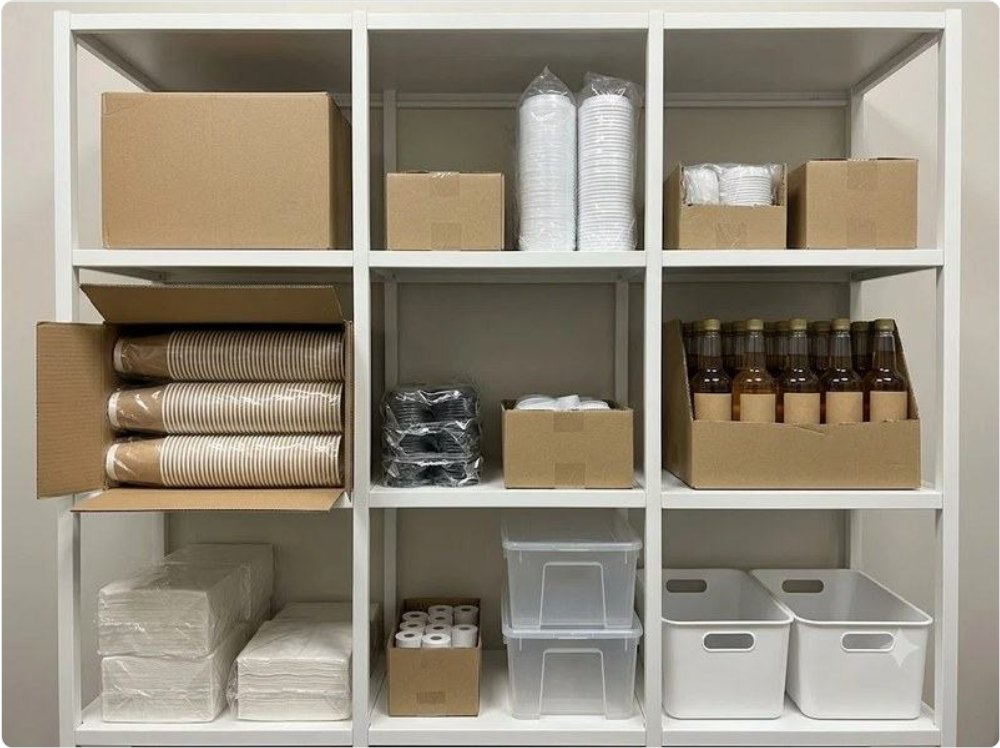
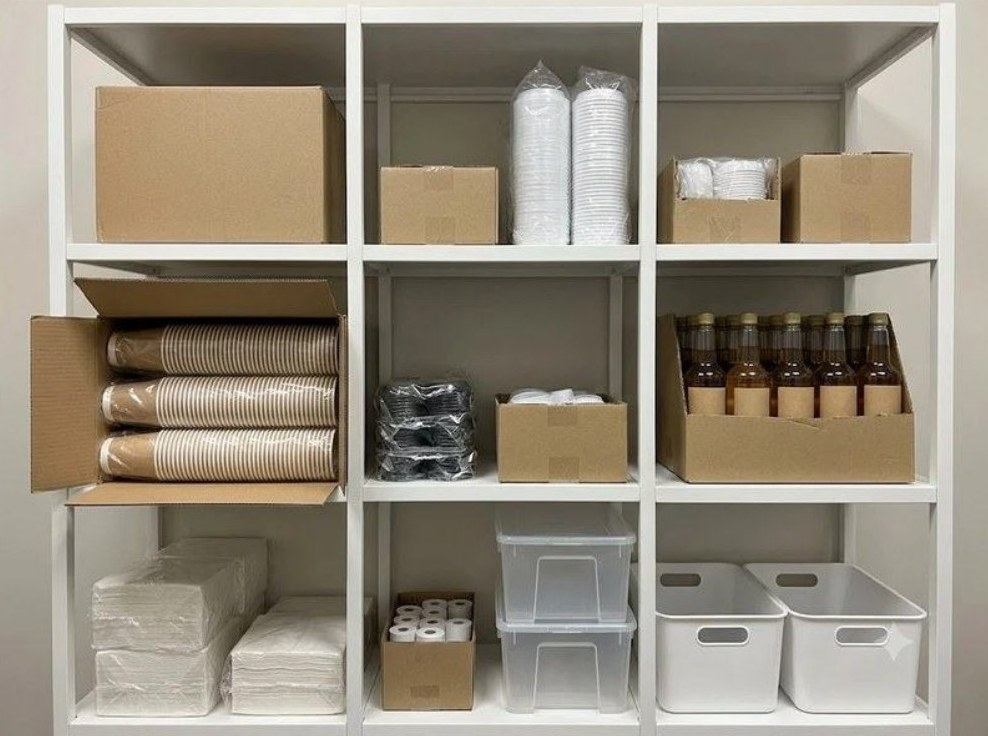
랜딩 사진 모서리에 남아 있던 흰 테두리·회색 둥근 모서리 잘라냄
find·map·exp·order·전후 비교(after·before) 사진이 원래 캡처의 둥근 모서리와 여백을
품고 있어 카드 모서리 안쪽에 흰 띠·회색 호가 보였음. 안쪽으로 6~16px 잘라 카드 둥근 모서리만
남게 하고, width/height와 캐시 번호도 맞춤.

Claude-Session: https://claude.ai/code/session_01GSizRSRuX8ML7roxLkBkh4

Changed region(s): [[0.0, 0.0, 1.0, 1.0]]

diff --git a/start/index.html b/start/index.html
@@ -187,8 +187,8 @@
       <div>
         <!-- 사진은 바꿔 끼울 수 있다: img/before.jpg(표시 없는 선반) · img/after.jpg(같은 선반을 앱에 넣은 화면). 실제 매장 사진은 사장님 허락 + 메뉴판·로고·사람 없이 -->
         <div class="compare" id="compare">
-          <img src="img/after.jpg?v=3" alt="칸마다 번호와 노란 쪽지로 물건 이름이 붙은 카페 창고 선반 사진" width="1000" height="748">
-          <div class="before"><img src="img/before.jpg?v=3" alt="아무 표시 없는 같은 선반 사진" width="1000" height="748"></div>
+          <img src="img/after.jpg?v=4" alt="칸마다 번호와 노란 쪽지로 물건 이름이 붙은 카페 창고 선반 사진" width="988" height="736">
+          <div class="before"><img src="img/before.jpg?v=4" alt="아무 표시 없는 같은 선반 사진" width="988" height="736"></div>
           <span class="lab l">지금</span><span class="lab r">오브젯도</span>
           <span class="bar"></span><span class="knob">↔</span>
           <input type="range" min="0" max="100" value="50" aria-label="전후 비교: 밀어서 보기">
@@ -243,7 +243,7 @@
     <h2>가게마다 아픈 곳이 달라요</h2>
     <p class="sub">제일 와닿는 데서 눌러 보세요.</p>
     <article class="pain">
-      <div class="shot"><img src="img/find.jpg" alt="검색한 물건이 있는 칸만 밝게 빛나는 선반 사진" loading="lazy" width="676" height="476"></div>
+      <div class="shot"><img src="img/find.jpg?v=2" alt="검색한 물건이 있는 칸만 밝게 빛나는 선반 사진" loading="lazy" width="656" height="456"></div>
       <div>
         <span class="k">새 직원</span>
         <h3>“이거 어딨어요?”가 줄어요</h3>
@@ -252,7 +252,7 @@
       </div>
     </article>
     <article class="pain">
-      <div class="shot"><img src="img/map.jpg" alt="모자란 물건이 있는 칸은 주황, 유통기한이 가까운 칸은 빨강 테두리인 선반 사진" loading="lazy" width="676" height="476"></div>
+      <div class="shot"><img src="img/map.jpg?v=2" alt="모자란 물건이 있는 칸은 주황, 유통기한이 가까운 칸은 빨강 테두리인 선반 사진" loading="lazy" width="656" height="456"></div>
       <div>
         <span class="k"><i style="background: var(--low);"></i>재고</span>
         <h3>떨어진 걸 사장님 없이도 알아요</h3>
@@ -261,7 +261,7 @@
       </div>
     </article>
     <article class="pain">
-      <div class="shot"><img src="img/exp.jpg" alt="유통기한이 가까운 순서로 정리된 목록. 기한 지남, D-2" loading="lazy" width="720" height="779"></div>
+      <div class="shot"><img src="img/exp.jpg?v=2" alt="유통기한이 가까운 순서로 정리된 목록. 기한 지남, D-2" loading="lazy" width="688" height="747"></div>
       <div>
         <span class="k"><i style="background: var(--exp);"></i>유통기한</span>
         <h3>버리기 전에 먼저 알려 줘요</h3>
@@ -270,7 +270,7 @@
       </div>
     </article>
     <article class="pain">
-      <div class="shot"><img src="img/order.jpg" alt="최소 수량보다 모자란 만큼만 모은 발주 목록" loading="lazy" width="720" height="779"></div>
+      <div class="shot"><img src="img/order.jpg?v=2" alt="최소 수량보다 모자란 만큼만 모은 발주 목록" loading="lazy" width="688" height="747"></div>
       <div>
         <span class="k">발주</span>
         <h3>감 대신, 모자란 만큼만</h3>
